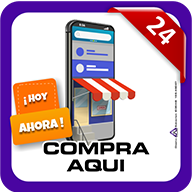
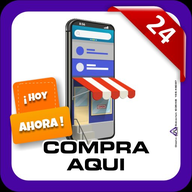
Add files via upload

diff --git a/app.js b/app.js
@@ -58,8 +58,7 @@ async function cargarConfig() {
     const doc = await db.collection('config').doc('tienda').get();
     config = doc.exists ? doc.data() : {};
     aplicarColor(config.color || 'indigo');
-    // Aplicar logo e ícono en TODAS las pantallas (login, registro, topbar, favicon)
-    aplicarLogo(config);
+    aplicarLogo(config);  // aplica logo/ícono en login, topbar, favicon
     // Aplicar textos
     const titulo = config.titulo || 'Productos disponibles';
     const sub    = config.subtitulo || 'Encontrá lo que buscás y contactanos por WhatsApp';
@@ -706,7 +705,7 @@ async function cargarConfigForm() {
   const doc = await db.collection('config').doc('tienda').get();
   const c   = doc.exists ? doc.data() : {};
   setVal('cfg-nombre',    c.nombre    || 'Comprá Aquí');
-  setVal('cfg-icono',     c.icono     || '🏪');
+  setVal('cfg-icono',     c.icono     || '');
   setVal('cfg-whatsapp',  c.whatsapp  || '[phone redacted]');
   setVal('cfg-titulo',    c.titulo    || 'Productos disponibles');
   setVal('cfg-subtitulo', c.subtitulo || 'Encontrá lo que buscás y contactanos por WhatsApp');
@@ -751,7 +750,7 @@ function aplicarLogo(cfg) {
   const logo  = cfg.logo  || '';
   const emoji = cfg.icono || '🏪';
 
-  // ── 1. Favicon (pestaña del navegador) ──────────────
+  // 1. Favicon (pestaña del navegador)
   const favicon = document.getElementById('favicon-link');
   if (favicon) {
     if (logo) {
@@ -763,16 +762,21 @@ function aplicarLogo(cfg) {
     }
   }
 
-  // ── 2. Todos los brand-icon en pantalla (login, registro, topbar) ──
+  // 2. brand-icon en pantalla: login, registro, topbar — tamaño FIJO
   document.querySelectorAll('.brand-icon, .brand-icon-sm').forEach(el => {
     if (logo) {
-      el.innerHTML = '<img src="' + logo + '" alt="logo" style="width:100%;height:100%;object-fit:contain;border-radius:8px;">';
+      const esSm = el.classList.contains('brand-icon-sm');
+      const px = esSm ? '30' : '52';
+      const br = esSm ? '6' : '10';
+      el.innerHTML = `<img src="${logo}" alt="logo" width="${px}" height="${px}"
+        style="width:${px}px;height:${px}px;max-width:${px}px;max-height:${px}px;
+        object-fit:contain;border-radius:${br}px;display:block;">`;
     } else {
       el.textContent = emoji;
     }
   });
 
-  // ── 3. OG tags (imagen al compartir por WhatsApp/redes) ──
+  // 3. OG tags (WhatsApp/redes)
   const ogImg = document.getElementById('og-image');
   if (ogImg && logo) ogImg.content = logo;
   const ogTitle = document.getElementById('og-title');

diff --git a/styles.css b/styles.css
@@ -81,11 +81,15 @@ body {
 }
 .brand-icon {
   font-size: 2.2rem;
-  width: 52px; height: 52px;
+  width: 52px; height: 52px; min-width: 52px;
   display: flex; align-items: center; justify-content: center;
   flex-shrink: 0; overflow: hidden; border-radius: 10px;
 }
-.brand-icon img { width: 100%; height: 100%; object-fit: contain; border-radius: 10px; }
+.brand-icon img {
+  width: 52px !important; height: 52px !important;
+  max-width: 52px !important; max-height: 52px !important;
+  object-fit: contain; border-radius: 10px; display: block;
+}
 .brand-name {
   font-family: 'Space Grotesk', sans-serif;
   font-size: 1.6rem; font-weight: 700; letter-spacing: -0.5px;
@@ -216,11 +220,15 @@ textarea { resize: vertical; }
 .topbar-right { display: flex; align-items: center; gap: 10px; }
 .brand-icon-sm {
   font-size: 1.4rem;
-  width: 32px; height: 32px;
+  width: 30px; height: 30px; min-width: 30px;
   display: flex; align-items: center; justify-content: center;
-  flex-shrink: 0; overflow: hidden; border-radius: 7px;
+  flex-shrink: 0; overflow: hidden; border-radius: 6px;
 }
-.brand-icon-sm img { width: 100%; height: 100%; object-fit: contain; border-radius: 7px; }
+.brand-icon-sm img {
+  width: 30px !important; height: 30px !important;
+  max-width: 30px !important; max-height: 30px !important;
+  object-fit: contain; border-radius: 6px; display: block;
+}
 .topbar-brand {
   font-family: 'Space Grotesk', sans-serif;
   font-size: 1.2rem; font-weight: 700;

diff --git a/sw.js b/sw.js
@@ -4,7 +4,7 @@
 // Este archivo activa el botón "Instalar app" en Chrome.
 // También guarda la app en caché para que cargue más rápido.
 
-const CACHE_NAME = 'compraqui-v1';
+const CACHE_NAME = 'compraqui-v2';
 
 // Archivos que se guardan offline
 const ARCHIVOS_CACHE = [